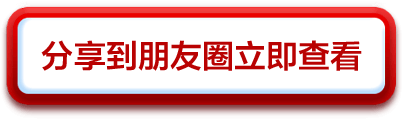
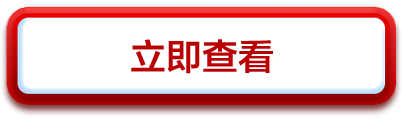
UI

Changed region(s): [[0.0896, 0.325, 0.9254, 0.625]]

diff --git a/dist/dist.js b/dist/dist.js
@@ -1,1 +1,1 @@
-!function(t){function n(o){if(e[o])return e[o].exports;var i=e[o]={exports:{},id:o,loaded:!1};return t[o].call(i.exports,i,i.exports,n),i.loaded=!0,i.exports}var e={};return n.m=t,n.c=e,n.p="../dist/",n(0)}([function(t,n,e){"use strict";function o(t){return t&&t.__esModule?t:{"default":t}}function i(t){return document.querySelector(t)}function a(t){if(location.search){var n=location.search.split("#")[0],e=n.slice(1).split("&"),o={};return e.forEach(function(t){var n=t.split("=");o[n[0]]=n[1]}),t?o[t]:o}}function m(t){return a(t)&&decodeURIComponent(a(t))?JSON.parse(decodeURIComponent(a(t))):void 0}function c(){var t=Math.ceil(14*Math.random());console.log(t),i("._show").style.backgroundImage="url(../img/img_big/"+(t||1)+".jpeg)"}function r(){}function s(t,n,e,o){return"https://open.weixin.qq.com/connect/oauth2/authorize?appid="+t+"&redirect_uri="+n+"&response_type=code&scope="+e+"&state="+o+"#wechat_redirect"}var g=e(3),l=o(g),p=m("userInfo"),_=p&&p.nickname;p&&"undefined"!=p&&_||(p={openid:"ofFh1t72qWRyN8V86w8qagrnBt68",nickname:"MH",sex:1,language:"en",city:"海淀",province:"北京",country:"中国",headimgurl:"http://wx.qlogo.cn/mmopen/XRES4dfLkwm9vicNBB0RaVqiaEImQibGDGvIerBPSk3HXMIZiaA6WRsrZS7DBvMj7myykBtcbJ9NyxYJm98q0gJ6ba2Sib6icBzt0f/0",privilege:[]}),console.log(p),i("#user-name").innerText=p.nickname,i("#avt").src=p.headimgurl;var f={man:[{avatar:"../img/avatar/柳岩-头像.jpg",user_name:"奶岩",content:"{{nickname}}你要上春晚啦！带上我好不咯？ 么么哒！",imgs:["../img/img_big/柳岩-配图.jpg"],post_time:"2小时前",liked_list:["邓超","大鹏","郭德纲","小沈阳","小岳岳","于莎莎","大宝剑乔杉"],reply_list:[{content:"岩岩，不说好要拍煎饼侠2吗!",from:"",to:"大鹏"},{content:"他带上你，你带上我好不咯？",to:"大宝剑乔杉"},{content:"她带上你，你带上我好不咯？",from:"于莎莎",to:"大宝剑乔杉"},{content:"上春晚找我啊，我也能带你上！",from:"",to:"小岳岳"},{content:"乖，我今天晚点回去，你早点睡。",from:"",to:"{{nickname}}"}]},{avatar:"../img/avatar/邓超-头像.jpg",user_name:"邓超",content:"我一点都不想看{{nickname}}上春晚，今年春节我根本就不看春晚！我要和娘娘、等等和小花来一场说走就走的旅行!",imgs:["../img/img_big/邓超-配图.jpg"],post_time:"2小时前",liked_list:["李晨","陈赤赤","郑恺","杨颖","晓明","王祖蓝","包贝尔","王宝强","谢娜"],reply_list:[{content:"家庭地位一目了然！",to:"陈赤赤"},{content:"家庭地位一目了然！",to:"郑恺"},{content:"家庭地位一目了然！",to:"李晨"},{content:"好像你多高似的",to:"李晨",from:"邓超"},{content:"邓叔叔棒棒哒~~晓明叔叔@黄晓明，我们什么时候去度假？",to:"杨颖"},{content:"baby，不是说好了2016年要安心造人么",from:"晓明",to:"杨颖"},{content:"害羞",from:"杨颖",to:"晓明"},{content:"(⊙o⊙)哦！",from:"邓超",to:"晓明"},{content:"(⊙o⊙)哦！",from:"李晨",to:"晓明"},{content:"(⊙o⊙)哦！",from:"陈赤赤",to:"晓明"},{content:"(#‵′)靠！",from:"郑恺",to:"晓明"}]},{avatar:"../img/avatar/孙俪-头像.jpg",user_name:"俪姐",content:"《芈月传2》和2016年春晚，你们更期待哪个？一个有我，一个有{{nickname}}，想好了再回答。",imgs:["../img/img_big/孙俪-配图.jpg"],post_time:"2小时前",liked_list:["邓超","何炅","马苏","刘涛","春申君黄轩","贾跃亭","马化腾","张朝阳","马云","{{nickname}}","方中信"],reply_list:[{content:"娘娘，《芈月传2》给乐视独家版权吧！",to:"贾跃亭"},{content:"版权金要多少，尽管开口，小马哥必定拿下。",to:"马化腾"},{content:"娘娘版权给优酷吧！送你一个淘宝钻石级VIP会员，全场无限额消费",to:"马云"},{content:"当然是想看娘娘啦！娘娘千秋万代一统江湖！",to:"何炅"},{content:"最期待《芈月传2》，看我怎么玩转后宫！",to:"马苏"}]},{avatar:"../img/avatar/周杰伦-头像.jpg",user_name:"周杰伦(工作)",content:"{{nickname}}听说你游戏打的不错哦，改天我们一起开黑双排吧~",imgs:["../img/img_big/周杰伦-配图.jpg"],post_time:"2小时前",liked_list:["王思聪","杨颖","陈赤赤","张靓颖","林更新"],reply_list:[{content:"九保一战术？",from:"",to:"陈赤赤"},{content:"一定要来熊猫TV直播啊，周董！",to:"王思聪"},{content:"最近没时间啦，春晚排练挺忙的，你哪天来公司找我吧，望京SOHO塔2B座",from:"于莎莎",to:"{{nickname}}"},{content:"2B座？",from:"周杰伦(工作)",to:"{{nickname}}"},{content:"o(╯□╰)o望京SOHO塔2，B座",from:"{{nickname}}",to:"周杰伦(工作)"}]},{avatar:"../img/avatar/杨颖-头像.jpg",user_name:"杨颖",content:"{{nickname}}，春晚排练累瘦了吧，直播完了来家里，我让晓明叔叔做大餐！",imgs:["../img/img_big/杨颖-配图.jpg"],post_time:"2小时前",liked_list:["郑恺","晓明","黄渤","陈坤","井柏然","陈赤赤","李晨","鹿晗","何炅"],reply_list:[{content:"晓明会做饭吗！也就海边捞点嘎啦",from:"",to:"黄渤"},{content:"就会做个西红柿鸡蛋面，哈哈哈哈",to:"黄渤",from:"井柏然"},{content:"Baby 我又来赞你啦~~",from:"",to:"郑恺"},{content:"渤哥也一起来喝点啊",from:"晓明",to:"黄渤"},{content:"谢谢嫂子！直播结束就去你家，我带上丽颖一块儿（害羞表情）饭还是让丽颖做",from:"",to:"{{nickname}}"}]},{avatar:"../img/avatar/易烊千玺-头像.jpg",user_name:"易烊千玺",content:"本boy特别开心，因为{{nickname}}哥哥要和我们一起上！春！晚！啦！",imgs:["../img/img_big/易烊千玺-配图.jpg"],post_time:"2小时前",liked_list:["王俊凯","王源","贾乃亮","{{nickname}}","杜淳","杨颖","大鹏"],reply_list:[{content:"艾玛，俊凯是表示不服吗？@{{nickname}}",from:"",to:"贾乃亮"},{content:"看本宝宝高冷的美貌！",to:"王源"},{content:"你敢不敢换一张！连拍那么多张，你非得用这张……",from:"",to:"王俊凯"},{content:"嘿嘿嘿",from:"易烊千玺",to:"王俊凯"},{content:"高冷boy你悠着点笑啊，小舌头都看见了",from:"{{nickname}}",to:"易烊千玺"},{content:"嘿嘿嘿",from:"易烊千玺",to:"{{nickname}}"}]},{avatar:"../img/avatar/毕福剑-头像.jpg",user_name:"毕福剑",content:"你咋不上天呢？",imgs:[p.headimgurl],post_time:"2小时前",liked_list:[],reply_list:[{content:"人家凭自己本事登上春晚，你也是凭自己本事作下春晚，成年人要为自己做的事负责，有时间在这鼻子不鼻子脸不是脸的，还不如好好琢磨琢磨怎么回到屏幕上！",from:"",to:"金星"},{content:"+1",to:"金星",from:"陈赤赤"},{content:"+1",to:"金星",from:"范爷"},{content:"+1",to:"金星",from:"周涛"},{content:"+10086",to:"金星",from:"林更新"}]}],woman:[{avatar:"../img/avatar/黄子韬-头像.jpg",user_name:"HZT黄子韬",content:"非常期待{{nickname}}姐在春晚的演出，我也要向{{nickname}}姐学习，坚持！努力！早晚有一天，我也会登上春晚的舞台！",imgs:["../img/img_big/黄子韬-配图.jpg"],post_time:"2小时前",liked_list:["{{nickname}}","宋茜","周觅","Kai","金俊勉","高云翔","陈一冰","潘玮柏"],reply_list:[{content:"wuli韬韬fighting！",from:"",to:"{{nickname}}"},{content:"동생 화이팅!",to:"金俊勉",from:""},{content:"红绿灯韬，fighting！",to:"周觅"},{content:"우리 토토一起努力，一起加油！",to:"宋茜"}]},{avatar:"../img/avatar/吴磊-头像.jpg",user_name:"吴磊LEO",content:"{{nickname}}姐姐，等我十年可好？",imgs:["../img/img_big/吴磊-头像.jpg"],post_time:"2小时前",liked_list:["胡歌","靳东","霍建华","刘涛","柳岩","贾玲"],reply_list:[{content:"三石啊，你会遇到更好的女孩~姐姐名花有主啦",from:"",to:"{{nickname}}"},{content:"不是让我等你吗！!",to:"贾玲",from:""},{content:"不要惦记我的女人",to:"胡歌"},{content:"宗主，我错了！！",to:"胡歌",from:"吴磊LEO"},{content:"她是你的女人？那我呢？",to:"胡歌",from:"霍建华"},{content:"你们四个怎么这么乱？",to:"胡歌",from:"靳东"}]},{avatar:"../img/avatar/王俊凯-头像.jpg",user_name:"王俊凯",content:"今天和{{nickname}}姐姐一起参加春晚彩排，有点小兴奋。",imgs:["../img/img_big/王俊凯-配图.jpg"],post_time:"2小时前",liked_list:["易烊千玺","王源","黄晓明","谢娜","何炅","杨颖"],reply_list:[{content:"她本人美不美？帮我要个签名呗！",from:"",to:"谢娜"},{content:"姐姐真美真仙真可爱，已经路转粉！!",to:"易烊千玺",from:""},{content:"三小只也很可爱很努力哦，有时间来姐姐家玩啊",to:"王俊凯",from:"{{nickname}}"},{content:"我已经要到她的签名啦，哈哈哈",to:"谢娜",from:"王源"}]},{avatar:"../img/avatar/陈学冬-头像.jpg",user_name:"陈学冬",content:"谢谢{{nickname}}送我的雪地靴，春晚fighting！",imgs:["../img/img_big/陈学冬-配图.jpg"],post_time:"2小时前",liked_list:["郭敬明","安东尼","落落","华晨宇","笛安","杨幂","谢依霖","郭碧婷"],reply_list:[{content:"是我不懂时尚",from:"",to:"韩火火"},{content:"穿双火箭筒？你咋不上天呢？!",to:"何炅",from:""},{content:"这个视角……是小四拍的吗？",to:"韩寒"},{content:"哥哥，这双鞋哪里有卖？",to:"张艺兴"}]},{avatar:"../img/avatar/吴亦凡-头像.jpg",user_name:"亦凡宝贝",content:"我喜欢女儿，希望以后能有一个像{{nickname}}的女儿~",imgs:["../img/img_big/吴亦凡-配图.jpg"],post_time:"2小时前",liked_list:["姚晨","韩寒","冯小刚","杨幂","张涵予","许晴"],reply_list:[{content:"哎呦喂，这恩爱秀我一脸！",from:"",to:"杨幂"},{content:"将来给我家土豆当媳妇啊!",to:"姚晨",from:""},{content:"来做我火华社的儿媳妇！",to:"刘烨"},{content:"亲爱的，记得穿秋裤",to:"{{nickname}}"},{content:"穿了你给我买的那套，爱心秋裤!",to:"{{nickname}}",from:"亦凡宝贝"}]},{avatar:"../img/avatar/杨洋-头像.jpg",user_name:"杨洋",content:"做个新发型，去见{{nickname}}",imgs:["../img/img_big/杨洋-配图.jpg"],post_time:"2小时前",liked_list:["郑爽","赵丽颖","唐嫣","杨幂","何炅","谢娜","李维嘉","吴昕","杜海涛"],reply_list:[{content:"你竟然认识{{nickname}}，求介绍！",from:"",to:"李易峰"},{content:"和我见面，连头都不洗!",to:"郑爽",from:""},{content:"小羊都不约我呢，姐姐不开心哼",to:"许晴"},{content:"快点，每次都迟到",to:"{{nickname}}"},{content:"为了见你，我得打扮帅点!",to:"{{nickname}}",from:"杨洋"}]},{avatar:"../img/avatar/王思聪-头像.jpg",user_name:"王思聪",content:"{{nickname}}，和我在一起，明年还让你上春晚！",imgs:["../img/img_big/王思聪-配图.jpg"],post_time:"2小时前",liked_list:["林更新","张予曦","袁成杰","杨颖","叫兽易小星","大鹏"],reply_list:[{content:"老公，求潜！",from:"",to:"林更新"},{content:"老公，求潜！!",to:"叫兽易小星",from:""},{content:"老公，我只想和你在一起，不上春晚也无所谓啊",to:"张予曦"},{content:"(挖鼻)",to:"{{nickname}}"}]},{avatar:"../img/avatar/张天爱-头像.jpg",user_name:"张天爱",content:"27亿播放量，太子妃重新上架，感谢全国的老婆们~（飞吻表情）",imgs:["../img/img_big/张天爱-配图.jpg"],post_time:"2小时前",liked_list:["贾跃亭","甘薇","{{nickname}}","侣皓吉吉","盛一伦","于朦胧","郭俊辰","江奇霖","海铃"],reply_list:[{content:"都删没了，唉，感觉你“老婆们”又要给我寄刀片了",from:"",to:"侣皓吉吉"},{content:"女神姐姐撩妹的镜头都木有啦，我和九哥跳舞的片段也木有啦（哭的表情）!",to:"郭俊辰",from:""},{content:"这画面太美，我没脸看……",to:"盛一伦"},{content:"芃芃哥男友力MAX！",to:"{{nickname}}"},{content:"娘娘~我们共舞的镜头都删了（大哭表情）",to:"海铃"}]},{avatar:"../img/avatar/邓超-头像.jpg",user_name:"邓超",content:"我一点都不想看{{nickname}}上春晚，今年春节我根本就不看春晚！我要和娘娘、等等和小花来一场说走就走的旅行!",imgs:["../img/img_big/邓超-配图.jpg"],post_time:"2小时前",liked_list:["李晨","陈赤赤","郑恺","杨颖","晓明","王祖蓝","包贝尔","王宝强","谢娜"],reply_list:[{content:"家庭地位一目了然！",to:"陈赤赤"},{content:"家庭地位一目了然！",to:"郑恺"},{content:"家庭地位一目了然！",to:"李晨"},{content:"好像你多高似的",to:"李晨",from:"邓超"},{content:"邓叔叔棒棒哒~~晓明叔叔@黄晓明，我们什么时候去度假？",to:"杨颖"},{content:"baby，不是说好了2016年要安心造人么",from:"晓明",to:"杨颖"},{content:"害羞",from:"杨颖",to:"晓明"},{content:"(⊙o⊙)哦！",from:"邓超",to:"晓明"},{content:"(⊙o⊙)哦！",from:"李晨",to:"晓明"},{content:"(⊙o⊙)哦！",from:"陈赤赤",to:"晓明"},{content:"(#‵′)靠！",from:"郑恺",to:"晓明"}]},{avatar:"../img/avatar/孙俪-头像.jpg",user_name:"俪姐",content:"《芈月传2》和2016年春晚，你们更期待哪个？一个有我，一个有{{nickname}}，想好了再回答。",imgs:["../img/img_big/孙俪-配图.jpg"],post_time:"2小时前",liked_list:["邓超","何炅","马苏","刘涛","春申君黄轩","贾跃亭","马化腾","张朝阳","马云","{{nickname}}","方中信"],reply_list:[{content:"娘娘，《芈月传2》给乐视独家版权吧！",to:"贾跃亭"},{content:"版权金要多少，尽管开口，小马哥必定拿下。",to:"马化腾"},{content:"娘娘版权给优酷吧！送你一个淘宝钻石级VIP会员，全场无限额消费",to:"马云"},{content:"当然是想看娘娘啦！娘娘千秋万代一统江湖！",to:"何炅"},{content:"最期待《芈月传2》，看我怎么玩转后宫！",to:"马苏"}]},{avatar:"../img/avatar/贾乃亮-头像.jpg",user_name:"贾乃亮",content:"甜馨叫王源哥哥，叫{{nickname}}姐姐，王源和{{nickname}}叫我亮哥，我是甜馨的爹……这辈儿咋这么乱？",imgs:["../img/img_big/贾乃亮-配图.jpg"],post_time:"2小时前",liked_list:["王源","李小璐","周星驰","易烊千玺","王俊凯","杜淳","甘薇","霍思燕","秦岚"],reply_list:[{content:"好喜欢小甜馨呢，亮哥，那以后叫你亮叔了",to:"王源"},{content:"那以后就叫你亮叔了",to:"{{nickname}}"},{content:"关系有点乱，可爱的小美人鱼也有害羞的时候",to:"周星驰"},{content:"贾老师，明年有档期上爸爸去哪儿第四季吗？",to:"谢涤葵"},{content:"爸爸回来了第三季也在找我，你还是和我经纪人谈吧",to:"谢涤葵",from:"贾乃亮"}]},{avatar:"../img/avatar/李小璐-头像.jpg",user_name:"李小璐",content:"前一阵子因为甜馨儿生病，都没顾上保养，今天趁着休息，边敷脸边看煮妇神探。这款动物面膜好玩又好敷，超级滋润水嫩，敷完皮肤水当当滑溜溜，想要的找我哦~",imgs:["../img/img_big/李小璐-配图.jpg"],post_time:"2小时前",liked_list:["甘薇","霍思燕","贾乃亮","熊乃瑾","王婧","李静","李艾","韩国面膜总代理","日韩面膜大中华代理"],reply_list:[{content:"我也敷上啦！",to:"贾乃亮"},{content:"用没用上次给你的静佳小样啊？我们现在有促销活动哦",to:"李静"},{content:"姐，面膜咋卖？",to:"{{nickname}}"},{content:"私聊",to:"{{nickname}}",from:"李小璐"}]},{avatar:"../img/avatar/金星-头像.jpg",user_name:"金星",content:"美猴王不让上，什么乱七八糟的反而都上了。他都57了，下一个猴年他可能就耍不动猴戏了，这会儿你们怎么看不见他的努力啊？语言类节目这么少，开心麻花被砍掉，美猴王也不请，吉祥物还那么丑，导演你咋不上天？你咋不上西天呢？！~",imgs:["../img/img_big/金星-配图.jpg"],post_time:"2小时前",liked_list:["韩红","冯小刚","李小璐","孟非","贾乃亮","王自健"],reply_list:[{content:"还有三年就到猪年了，答应我，你们的热情不要过去好吗",to:"马德华"},{content:"几代人的情怀……猴年不让猴王上春晚，也是醉了",to:"孟非"},{content:"甜馨挚爱的孙悟空啊！金星姐，能给安排甜馨见见她偶像不？",to:"李小璐"},{content:"我将参加中央电视台春节戏曲晚会，暂定大年初三播出，欢迎大家收看。",to:"六小龄童"},{content:"(哭脸)",to:"{{nickname}}"}]},{avatar:"../img/avatar/李易峰-头像.jpg",user_name:"李易峰",content:"把乐带回家.",imgs:["../img/img_big/李易峰-配图.jpg"],post_time:"2小时前",liked_list:["蔡依林","罗志祥","六小龄童","杨幂","南派三叔"],reply_list:[{content:"穿秋裤了吗？",to:"杨幂"},{content:"你不参加春晚彩排了？",to:"杨洋"},{content:"马上到北京，晚上吃饭你把{{nickname}}介绍给我认识呗",to:"杨洋",from:"李易峰"},{content:"好吧……",from:"杨洋",to:"李易峰"}]},{avatar:"../img/avatar/彭姨-头像.jpg",user_name:"彭姨",content:"翻旧照片，找到和{{nickname}}小时候的合影，那年他才2岁。今年小{{nickname}}第一次登上春晚舞台，希望大家多多捧场。.",imgs:["../img/img_big/彭姨-配图.jpg"],post_time:"2小时前",liked_list:["毕福剑","朱军","董卿","周涛","撒贝宁","赵本山","宋丹丹","倪萍","毛阿敏","宋祖英","赵忠祥","姨夫"],reply_list:[{content:"多谢彭姨为我加油，我一定不辜负您的期望，好好努力表现！",to:"{{nickname}}"},{content:"遇到困难和我说，别太辛苦了。",to:"{{nickname}}",from:"姨夫"},{content:"(开心表情）恩~姨夫么么哒",to:"姨夫",from:"{{nickname}}"}]},{avatar:"../img/avatar/贾玲-头像.jpg",user_name:"贾玲",content:"在我之后，又将有一位女神级演员登上春晚舞台——{{nickname}}，我们的共同点就是：都有一个尖下巴！",imgs:["../img/img_big/贾玲-配图.jpg"],post_time:"2小时前",liked_list:["白凯南","包贝尔","大张伟","吴秀波","王凯KKW"],reply_list:[{content:"这大脸巴子吓我一哆嗦……",to:"白凯南"},{content:"还是你比较美",to:"吴秀波"},{content:"你们还有一个共同点：脸大",to:"大张伟"}]},{avatar:"../img/avatar/盛一伦-头像.jpg",user_name:"盛一伦",content:"这样拍照，要帅一点。",imgs:["../img/img_big/盛一伦-配图.jpg"],post_time:"2小时前",liked_list:["张天爱","于朦胧","{{nickname}}","侣皓吉吉","林更新","何炅","李维嘉"],reply_list:[{content:"黄桑，你什么时候都帅！",to:"{{nickname}}"},{content:"哪个小婊砸！",to:"张天爱"},{content:"哪个小婊砸！",to:"于朦胧"},{content:"哪个小婊砸！",to:"咪蒙"},{content:"哪个小婊砸！",to:"燕公子"},{content:"哪个小婊砸！",to:"薛好大"}]},{avatar:"../img/avatar/杨颖-头像.jpg",user_name:"杨颖",content:"{{nickname}}，春晚排练累瘦了吧，直播完了来家里，我让晓明叔叔做大餐！",imgs:["../img/img_big/杨颖-配图.jpg"],post_time:"2小时前",liked_list:["郑恺","晓明","黄渤","陈坤","井柏然","陈赤赤","李晨","鹿晗","何炅"],reply_list:[{content:"晓明会做饭吗！也就海边捞点嘎啦",from:"",to:"黄渤"},{content:"就会做个西红柿鸡蛋面，哈哈哈哈",to:"黄渤",from:"井柏然"},{content:"Baby 我又来赞你啦~~",from:"",to:"郑恺"},{content:"渤哥也一起来喝点啊",from:"晓明",to:"黄渤"},{content:"谢谢嫂子！直播结束就去你家，我带上丽颖一块儿（害羞表情）饭还是让丽颖做",from:"",to:"{{nickname}}"}]},{avatar:"../img/avatar/毕福剑-头像.jpg",user_name:"毕福剑",content:"你咋不上天呢？",imgs:[p.headimgurl],post_time:"2小时前",liked_list:[],reply_list:[{content:"人家凭自己本事登上春晚，你也是凭自己本事作下春晚，成年人要为自己做的事负责，有时间在这鼻子不鼻子脸不是脸的，还不如好好琢磨琢磨怎么回到屏幕上！",from:"",to:"金星"},{content:"+1",to:"金星",from:"陈赤赤"},{content:"+1",to:"金星",from:"范爷"},{content:"+1",to:"金星",from:"周涛"},{content:"+10086",to:"金星",from:"林更新"}]}],background:["www.baidu.com"]},d=1==p.sex?f.man:f.woman;d.forEach(function(t){t.content=t.content&&t.content.replace(/{{nickname}}/g,p.nickname),t.liked_list=t.liked_list.map(function(t){return"{{nickname}}"==t&&(t=t.replace(/{{nickname}}/,p.nickname)),t}),t.reply_list=t.reply_list.map(function(t){return t.content=t.content&&t.content.replace(/{{nickname}}/g,p.nickname),t.from=t.from&&t.from.replace(/{{nickname}}/,p.nickname),console.log(p.nickname),t.to=t.to&&t.to.replace(/{{nickname}}/,p.nickname),t})});var k={avatar:"../img/avatar/夺宝联萌-头像.jpg",user_name:"夺宝联萌",content:"全新SRPG沙盒对战手游<br>今日强势登陆AppStore",imgs:["../img/img_big/夺宝联萌-配图.gif"],post_time:"2小时前",liked_list:["王思聪","叫兽易小星","杨颖","林更新","陈赫","郑恺"],reply_list:[{content:"来找我谈谈熊猫TV直播的事",from:"",to:"王思聪"},{content:"这什么游戏？",to:"郑恺",from:""},{content:"好玩吗？",to:"王思聪",from:"林更新"},{content:"《煮妇神探》大结局，你们看了吗？",to:"贾乃亮",from:""},{content:"天霸动霸Tuà系列T恤卫衣已经上架，还有最新【添财】系列，新年新款你值得拥有！",to:"陈赫",from:""}]};d.splice(2,0,k);~location.href.indexOf("#")?location.href.slice(0,location.href.indexOf("#")):location.href,new Vue({el:"#list ul",data:{dataList:d},components:{friendList:l["default"]},ready:function(){r(),i("title").innerText="听说"+p.nickname+"要上春晚，朋友圈竟然变这样!",i("#list").addEventListener("click",function(t){var n=t.target;"list-img"==n.className&&(i(".modal").className="modal",i(".modal-container").innerHTML="<img src="+n.src+">")}),i(".modal").addEventListener("click",function(t){this.className="modal hide",i(".modal-container").innerHTML=""}),c(),i("#share a").addEventListener("click",function(t){t.preventDefault();var n=Math.random().toString(36).substr(2),e=encodeURIComponent("http://weixin.ezone.cn/view/shake.html");localStorage.setItem("state",n),setTimeout(function(){location.href=s("wx693582460d15cb5e",e,"snsapi_userinfo",n)},50)})}})},function(t,n){"use strict";Object.defineProperty(n,"__esModule",{value:!0}),n["default"]={props:{dataList:Array},methods:{auto_play:function(){var t=document.getElementById("video");t.paused?t.play():t.pause()}},ready:function(){this.dataList.forEach(function(t){t.liked_list=t.liked_list.join(",")})}}},function(t,n){t.exports='<li v-for="data in dataList"><div class=po-avt-wrap><img :src=data.avatar onerror="" class=po-avt></div><div class=po-cmt><div class=po-hd><p v-if=data.isAd class=ads>推广<img src=http://s.juancdn.com/jpwebapp/images/pengyouquan/ads.png></p><p class=po-name>{{data.user_name}}</p><div class=post><p>{{{data.content}}}</p><img v-for="img in data.imgs" :src=img class=list-img></div><p class=time>{{data.post_time}}</p><img src=http://s.juancdn.com/jpwebapp/images/pengyouquan/c.png class=c-icon></div><div class=r></div><div class=cmt-wrap><div v-if=data.liked_list.length class=like><img src=http://s.juancdn.com/jpwebapp/images/pengyouquan/l.png><span class=data-name></span>{{data.liked_list}}</div><div class=cmt-list><p v-for="reply_item in data.reply_list"><span v-if=reply_item.from>{{reply_item.from}}<i>回复</i></span> <span>{{reply_item.to}}:</span>{{reply_item.content}}</p></div></div></div></li>'},function(t,n,e){var o,i;o=e(1),i=e(2),t.exports=o||{},t.exports.__esModule&&(t.exports=t.exports["default"]),i&&(("function"==typeof t.exports?t.exports.options:t.exports).template=i)}]);
[1 lines of base64/hex data omitted]

diff --git a/script/index.js b/script/index.js
@@ -310,7 +310,7 @@ var friendData = {
     avatar: '../img/avatar/吴磊-头像.jpg', //头像url
     user_name: '吴磊LEO', //用户名
     content: '{{nickname}}姐姐，等我十年可好？', //文字内容
-    imgs: ['../img/img_big/吴磊-头像.jpg'], //状态图片url
+    imgs: ['../img/img_big/吴磊-配图.jpg'], //状态图片url
     post_time: '2小时前', //信息发送时间
     liked_list: ['胡歌', '靳东', '霍建华', '刘涛', '柳岩', '贾玲'], //点赞列表
     reply_list: [{
@@ -713,24 +713,20 @@ var friendData = {
     post_time: '2小时前', //信息发送时间
     liked_list: ['郑恺', '晓明', '黄渤', '陈坤', '井柏然', '陈赤赤', '李晨', '鹿晗', '何炅'], //点赞列表
     reply_list: [{
-        content: '晓明会做饭吗！也就海边捞点嘎啦', //回复内容
+        content: '晓明会做饭吗！也就会做个西红柿鸡蛋面，哈哈哈哈', //回复内容
         from: '', //回复人姓名
-        to: '黄渤' //被回复人姓名
-      }, {
-        content: '就会做个西红柿鸡蛋面，哈哈哈哈', //回复内容
-        to: '黄渤', //被回复人姓名
-        from: '井柏然'
+        to: '井柏然' //被回复人姓名
       }, {
         content: 'Baby 我又来赞你啦~~', //回复内容
         from: '',
         to: '郑恺' //被回复人姓名
       }, {
-        content: '渤哥也一起来喝点啊',
-        from: '晓明',
-        to: '黄渤'
-      }, {
-        content: '谢谢嫂子！直播结束就去你家，我带上丽颖一块儿（害羞表情）饭还是让丽颖做',
+        content: '谢谢Baby！直播结束就去你家，我带上那谁一块儿',
         from: '',
+        to: '{{nickname}}'
+      }, {
+        content: '好！欢迎Mr凡~~',
+        from: '杨颖',
         to: '{{nickname}}'
       }] //回复列表
   }, {
@@ -795,6 +791,8 @@ var adData = {
   imgs: ['../img/img_big/夺宝联萌-配图.gif'], //状态图片url
   post_time: '2小时前', //信息发送时间
   liked_list: ['王思聪', '叫兽易小星', '杨颖', '林更新', '陈赫', '郑恺'], //点赞列表
+  isAd: true,
+  link: 'http://dblm.ezone.cn/',
   reply_list: [{
       content: '来找我谈谈熊猫TV直播的事', //回复内容
       from: '', //回复人姓名
@@ -905,19 +903,29 @@ var friendCircle = new Vue({
   ready() {
     getConfig();
     $('title').innerText = '听说' + userInfo.nickname + '要上春晚，朋友圈竟然变这样!';
+    //图片放大
     $('#list').addEventListener('click', function(e){
       var target = e.target;
-      if(target.className == 'list-img') {
+      if(target.className == 'list-img ad-img') {
         $('.modal').className = 'modal';
+
         $('.modal-container').innerHTML = '<img src=' + target.src + '>';
+        document.body.style.overflow = 'hidden';
       }
     });
+    //取消
     $('.modal').addEventListener('click', function(e) {
       this.className = 'modal hide';
-      $('.modal-container').innerHTML = '';
-    })
+      $('.modal').innerHTML = '<div class="modal-container"></div>'
+      document.body.style.overflow = 'scroll';
+    });
     //随机背景
     randomBg();
+    //点击分享
+    $('#share_to_friend').addEventListener('click', function(e){
+      $('.modal').className = 'modal';
+      $('.modal').innerHTML = '<img class="arrow" src="../img/jiantou.png" alt=""><div class="modal-container"><img class="share_bz" src="../img/baozou.png" alt=""></div>'
+    });
     //跳转至用户授权页
     $('#share a').addEventListener('click', function(e) {
       e.preventDefault();

diff --git a/component/friend-list.vue b/component/friend-list.vue
@@ -6,20 +6,21 @@
       <div class="po-cmt">
           <div class="po-hd">
               <!-- 广告 -->
-              <p v-if="data.isAd" class="ads">推广<img src="http://s.juancdn.com/jpwebapp/images/pengyouquan/ads.png" ></p>
+              <p v-if="data.isAd" class="ads"><a :href="data.link">推广<img src="../img/ads.png"></a></p>
               <p class="po-name">{{data.user_name}}</p>
-              <div class="post"><p>
+              <div class="post">
                 {{{data.content}}}
-              </p>
-                  <!-- <a href="http://mp.weixin.qq.com/s?__biz=MjM5MDk1NjY0MA==&mid=402311636&idx=2&sn=35581e3c9fca720903919a0e23bf4846#rd" class="ad-link">查看详情 <img src="http://s.juancdn.com/jpwebapp/images/pengyouquan/link.png"></a> -->
-                  <img v-for="img in data.imgs" :src="img" class="list-img">
               </div>
-              <p class="time">{{data.post_time}}</p><img src="http://s.juancdn.com/jpwebapp/images/pengyouquan/c.png" class="c-icon">
+              <img v-for="img in data.imgs" :src="img" class="list-img" :class="{'ad-img':data.isAd}">
+              <p>
+                <a v-if="data.isAd" :href="data.link" class="ad-link">查看详情 <img src="../img/link.png"></a>
+              </p>
+              <p class="time">{{data.post_time}}</p><img src="../img/c.png" class="c-icon">
           </div>
           <div class="r"></div>
           <!-- 点赞及回复列表 -->
           <div class="cmt-wrap">
-              <div v-if="data.liked_list.length" class="like"><img src="http://s.juancdn.com/jpwebapp/images/pengyouquan/l.png"><span class="data-name"></span>{{data.liked_list}}</div>
+              <div v-if="data.liked_list.length" class="like"><img src="../img/l.png"><span class="data-name"></span>{{data.liked_list}}</div>
               <div class="cmt-list">
                   <p v-for="reply_item in data.reply_list">
                     <span v-if="reply_item.from">{{reply_item.from}}<i> 回复 </i></span>

diff --git a/style/main.css b/style/main.css
@@ -105,7 +105,6 @@ body {
 }
 #share_link{
   display: block;
-  width: 50%;
   margin: 0 auto;
 }
 .result_content {
@@ -140,6 +139,8 @@ body {
 }
 .result_p {
   font-size: 20px;
+  margin-top: 30px;
+  color: #333;
 }
 i {
   font-style: normal;
@@ -3269,7 +3270,7 @@ b{
   height: 100%;
   top: 0;
   left: 0;
-  background: rgba(51,51,51,.6);
+  background: rgba(0, 0, 0,.7);
   z-index: 1000;
 }
 .modal-container {
@@ -3286,8 +3287,21 @@ b{
     -webkit-transition: opacity .3s ease;
     transition: opacity .3s ease;
 }
-.modal img{
-  width: 100%;
+.modal-container img{
+    width: 100%;
+    top: 50%;
+    position: absolute;
+    transform: translate3d(-50%, -50%, 0);
+    -webkit-transform: translate3d(-50%, -50%, 0);
+}
+.modal .share_bz{
+  width: 90%;
+}
+.modal .arrow{
+  position: absolute;
+  top: 10px;
+  right: 10px;
+  width: 40%;
 }
 
 .banner{
@@ -3296,4 +3310,16 @@ b{
 #result-title{
   display: inline-block;
   vertical-align: -20px;
+}
+.ad-link img{
+  width: 12px;
+  padding: 0;
+  display: inline-block;
+  margin: 3px 3px 0 0;
+  padding: 0;
+  overflow: hidden;
+}
+.result_img{
+  width: 60%;
+  margin: 20px auto;
 }

diff --git a/view/index.html b/view/index.html
@@ -16,8 +16,7 @@
 <body>
   <!-- 主体 -->
   <header class="_show header_bg">
-    <img src="../img/monkey_share.jpg" alt="" style="display: none;">
-    <!-- <img src="http://s.juancdn.com/jpwebapp/images/pengyouquan/bg.jpg" id="bg"> -->
+    <img src="../img/monkey_share.jpg" alt="" style="visibility: hidden;">
     <p class="data-name" id="user-name"></p>
     <img src="" class="data-avt" id="avt">
   </header>
@@ -40,12 +39,18 @@
     </div>
     <div id="share" class="_show">
       <a href=''>我也要测</a>
-      <a>分享到朋友圈</a>
+      <a id="share_to_friend">分享到朋友圈</a>
       <p>（此朋友圈纯属虚构）</p>
     </div>
     <div class="hide" id="guide"></div>
   </div>
-  <div class="modal hide">
+  <!-- <div class="modal">
+    <img class="arrow" src="../img/jiantou.png" alt="">
+    <div class="modal-container">
+      <img class="share_bz" src="../img/baozou.png" alt="">
+    </div>
+  </div> -->
+  <div class="modal hide" id="modal-share">
     <div class="modal-container"></div>
   </div>
   <script src="../dist/vue.min.js"></script>

diff --git a/view/shake.html b/view/shake.html
@@ -38,13 +38,14 @@
           </div>
         </div>
         <p class="result_p"><span id="user_name">无名</span><i class="hot_font">凭</i><span id="result-skill">逆天的颜值</span></p>
-        <img src="" alt="" class="result_img">
+        <img src="../img/dengshangwt.png" alt="" class="result_img">
         <div class="hot_font">天惹噜!听说你要上春晚
           <br>朋友圈竟然变这样...</div>
       </div>
     </div>
-    <div class="share_btn_img"><a id="share_link" href=""><img src="../img/btn.png" alt=""></a></div>
+    <!-- <div class="share_btn_img"></div> -->
     <div class="newyear_title">
+      <a id="share_link" href=""><img src="../img/btn.png" alt=""></a>
       <img src="../img/monkeydancespring.png" alt="猴舞新春">
     </div>
   </div>
